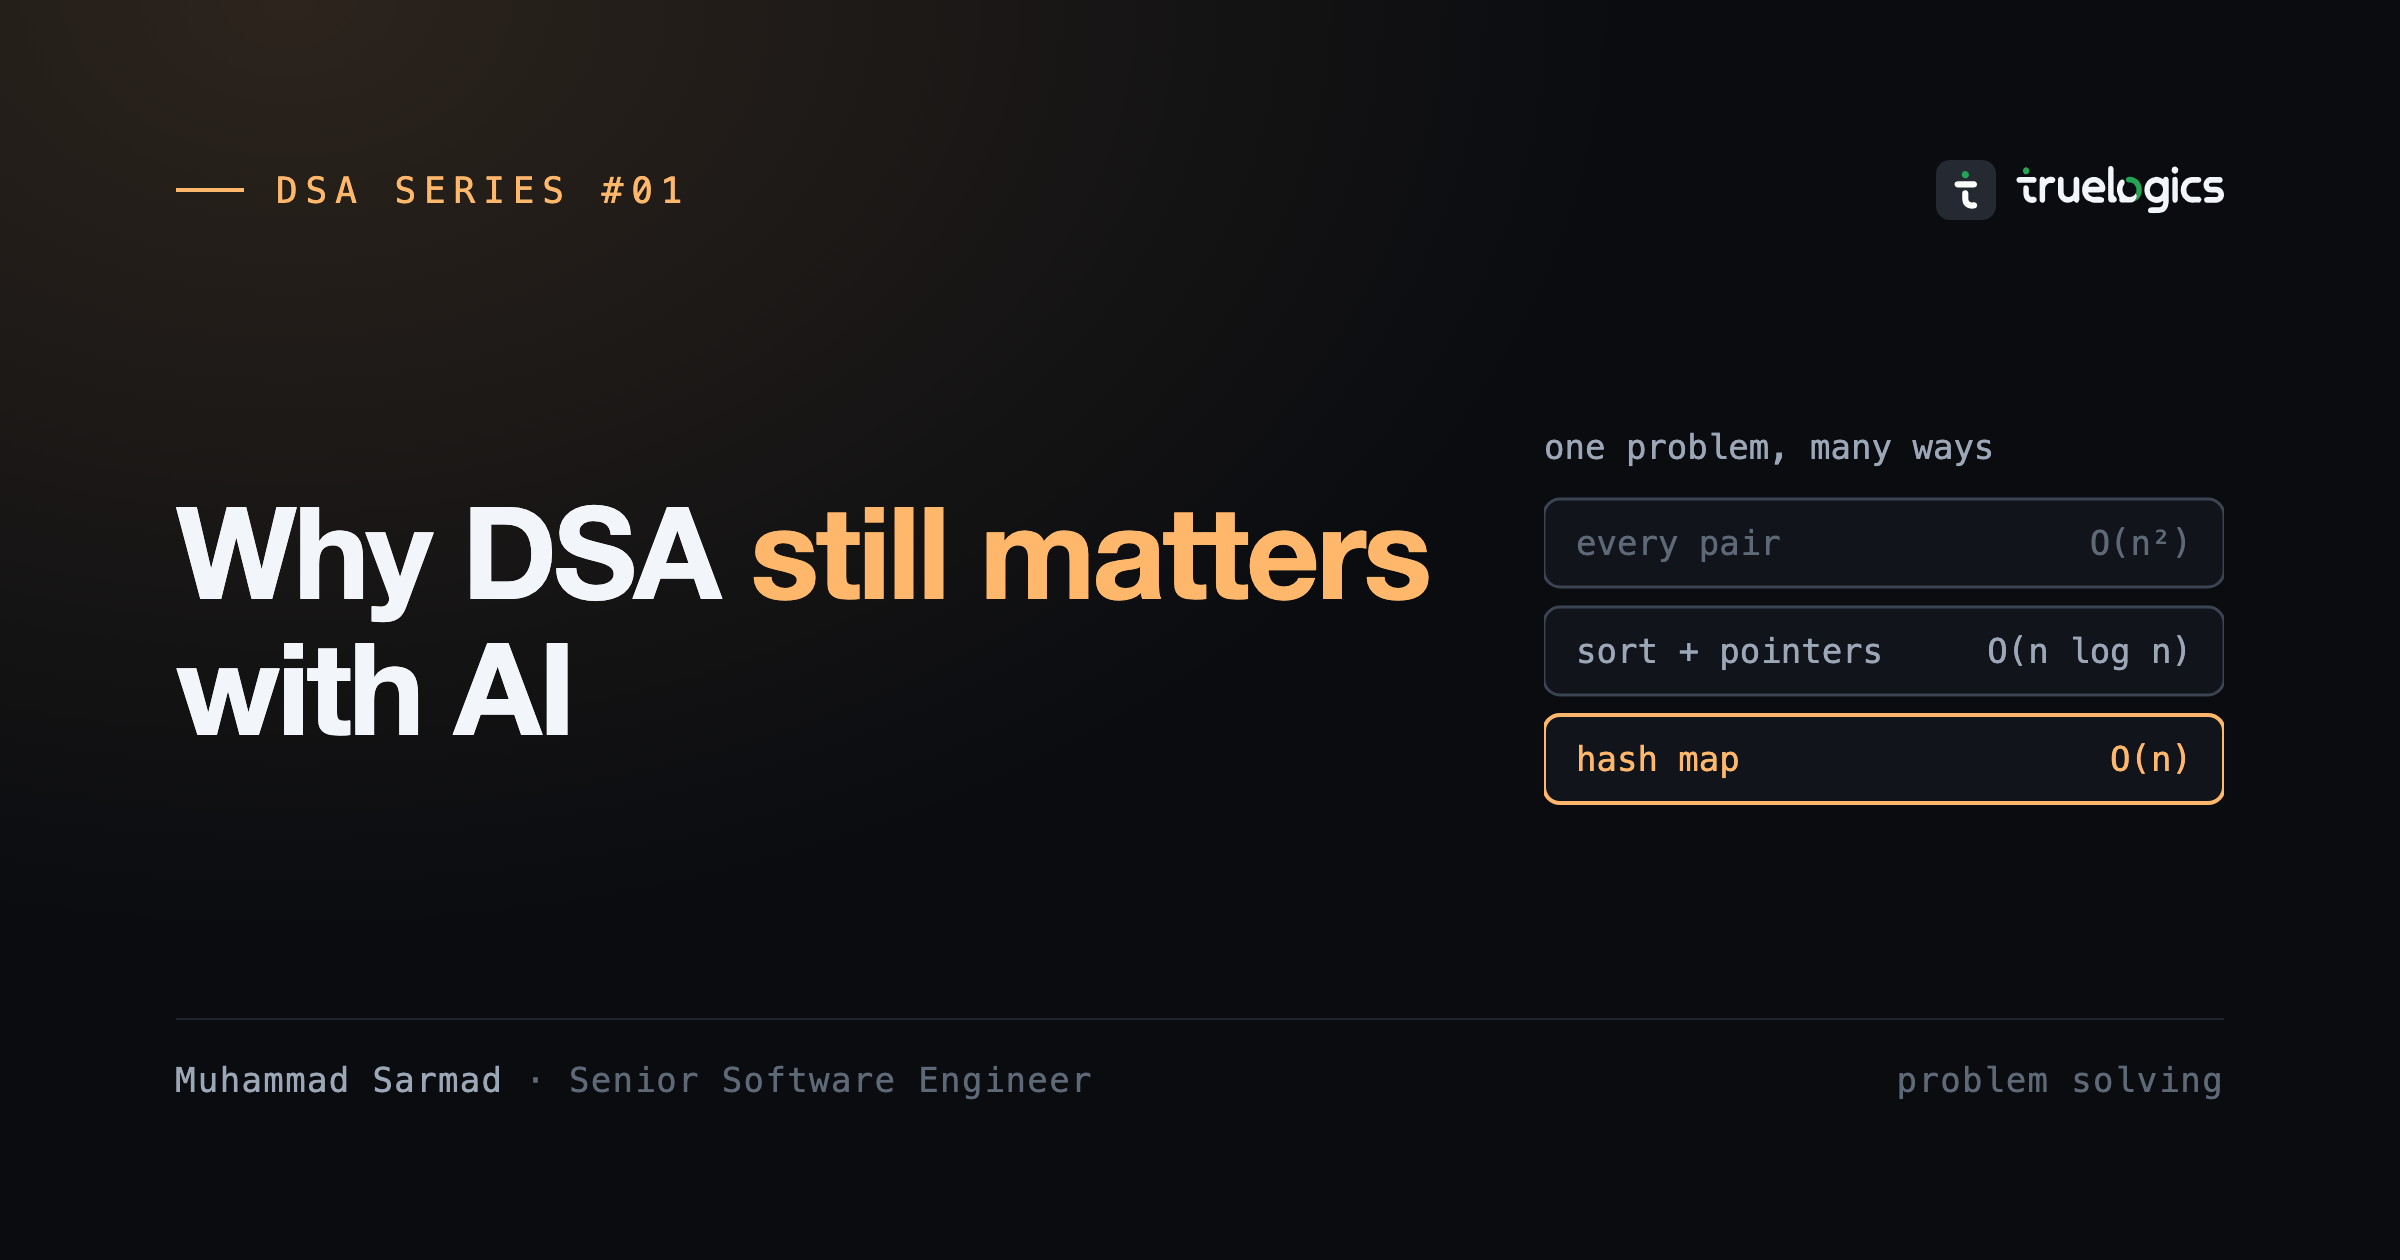
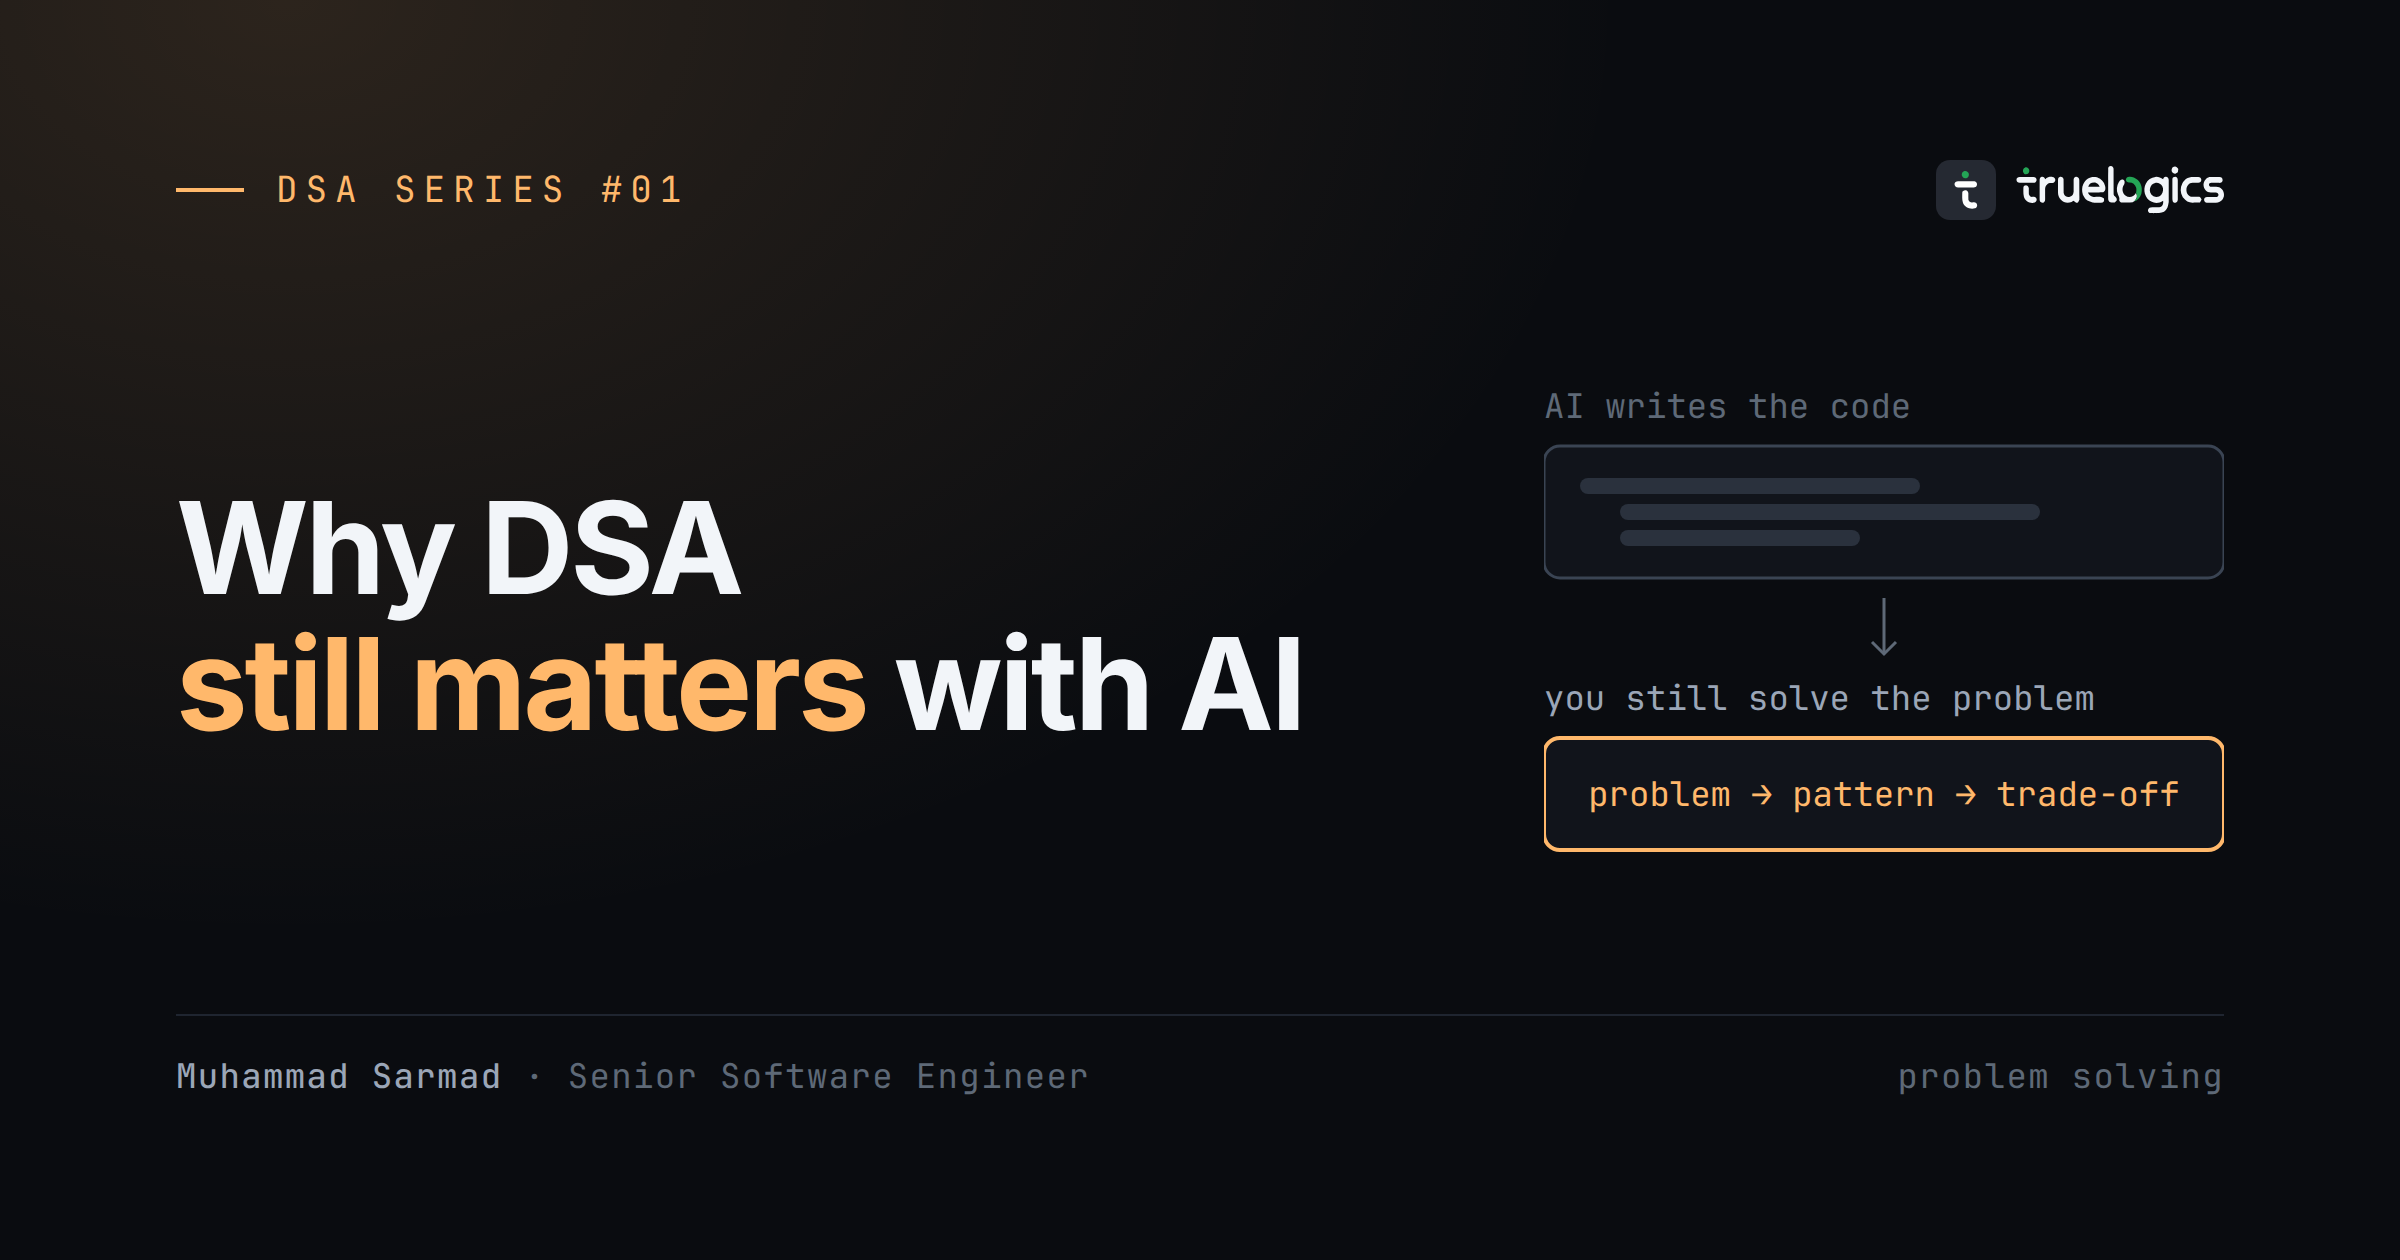
Add cover image and update cover HTML for DSA Series #01

diff --git a/posts/dsa-01-reclaiming-dsa/src/cover.html b/posts/dsa-01-reclaiming-dsa/src/cover.html
@@ -3,15 +3,16 @@
 <div class="frame">
   <div class="series">DSA Series #01<span class="brand"><img src="../../../brand/truelogics-icon.svg" alt=""><img src="../../../brand/truelogics-logo.svg" alt="truelogics"></span></div>
   <div class="main">
-    <h1>Why DSA <em>still matters</em> with AI</h1>
+    <h1>Why DSA <em style="white-space:nowrap">still matters</em> with AI</h1>
     <div class="motif">
-      <svg viewBox="0 0 340 200">
-        <text x="0" y="20" font-size="17" fill="#9BA6B7">one problem, many ways</text>
-        <g fill="#11141B" stroke="#3A4453" stroke-width="1.5"><rect x="0" y="40" width="340" height="44" rx="8"/><rect x="0" y="94" width="340" height="44" rx="8"/></g>
-        <rect x="0" y="148" width="340" height="44" rx="8" fill="#11141B" stroke="#FFB86B" stroke-width="2"/>
-        <g font-size="17"><text x="16" y="68" fill="#5E6977">every pair</text><text x="324" y="68" text-anchor="end" fill="#5E6977">O(n²)</text>
-        <text x="16" y="122" fill="#9BA6B7">sort + pointers</text><text x="324" y="122" text-anchor="end" fill="#9BA6B7">O(n log n)</text>
-        <text x="16" y="176" fill="#FFB86B">hash map</text><text x="324" y="176" text-anchor="end" fill="#FFB86B">O(n)</text></g>
+      <svg viewBox="0 0 340 236">
+        <text x="0" y="18" font-size="17" fill="#5E6977">AI writes the code</text>
+        <rect x="0" y="32" width="340" height="66" rx="8" fill="#11141B" stroke="#3A4453" stroke-width="1.5"/>
+        <g fill="#2A313D"><rect x="18" y="48" width="170" height="8" rx="4"/><rect x="38" y="61" width="210" height="8" rx="4"/><rect x="38" y="74" width="120" height="8" rx="4"/></g>
+        <g stroke="#5E6977" stroke-width="1.5" fill="none"><path d="M170 108 V136"/><path d="M164 130 L170 136 L176 130"/></g>
+        <text x="0" y="164" font-size="17" fill="#9BA6B7">you still solve the problem</text>
+        <rect x="0" y="178" width="340" height="56" rx="8" fill="#11141B" stroke="#FFB86B" stroke-width="2"/>
+        <text x="170" y="212" text-anchor="middle" font-size="17" fill="#FFB86B">problem → pattern → trade-off</text>
       </svg>
     </div>
   </div>
